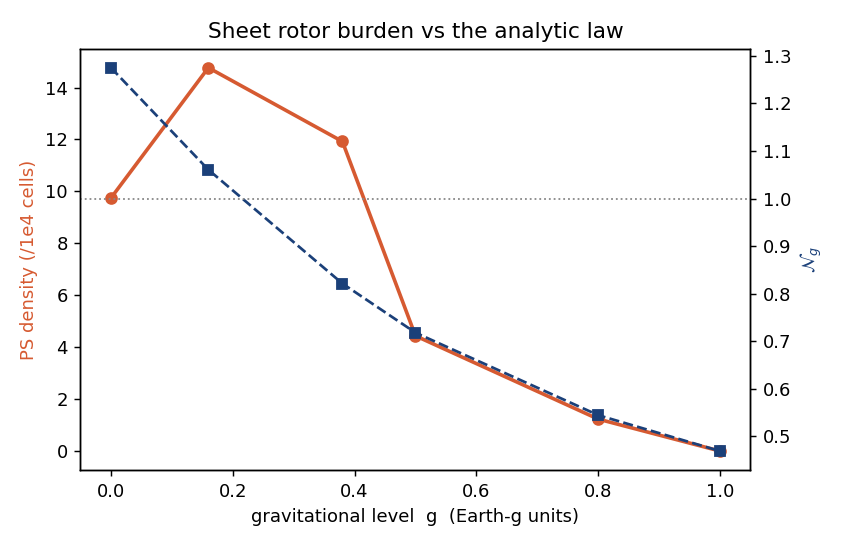
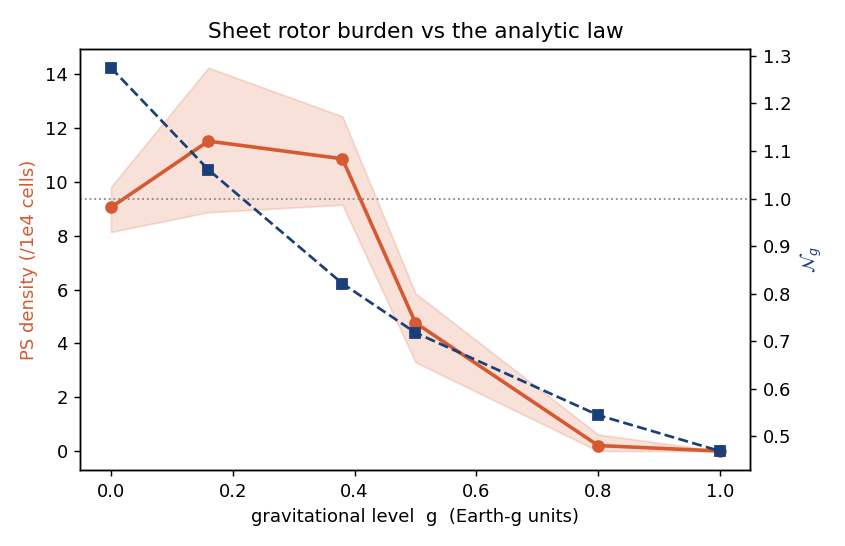
feat: 6-seed ensemble corroboration with bootstrap CI; update manuscripts + README
gravity_corroboration.py gains --seeds (per-gravity fibrosis ensemble) and reports
mean + bootstrap 95% CI, with a CI band on the figure. Full 6-seed run: rotor
burden high across transit/Moon/Mars (~9-12), sharp drop 0.5->0.8 g, exactly 0 at
Earth (CI 0-0). Honest reframing: the full model is MORE pessimistic than the
analytic g*~0.22 (rotors persist through Mars), so N_g is an optimistic bound.
Removes single-seed caveat from scaling_law + Cureus manuscripts.

diff --git a/experiments/gravity_corroboration.py b/experiments/gravity_corroboration.py
@@ -36,6 +36,7 @@ from afib_microgravity.crn import CRNCell  # noqa: E402
 from afib_microgravity.diffusion import AnisotropicDiffusion  # noqa: E402
 from afib_microgravity.fibrosis import correlated_fibrosis  # noqa: E402
 from afib_microgravity.metrics import (  # noqa: E402
+    bootstrap_ci,
     count_phase_singularities,
     ps_density,
 )
@@ -49,7 +50,6 @@ RESULTS = os.path.join(FIG, "results_crn.json")
 V_DEPOL = 20.0
 V0 = -40.0
 DELAY_MS = 30.0
-SEED = 0
 
 
 def crn_phase(V_now, V_delayed):
@@ -64,12 +64,12 @@ def induce_broken_wavefront(cell):
     cell.stimulate(mask, V_DEPOL)
 
 
-def run_sheet_for_gravity(g, base_grid, dt, n_steps, record_every):
+def run_sheet_for_gravity(g, base_grid, dt, n_steps, record_every, seed=0):
     rem = gravity_to_remodeling(g)
     n = int(base_grid * rem.dilation)
     shape = (n, n)
     cell = CRNCell(shape=shape, params=microgravity_crn_params(severity=rem.severity))
-    coupling = correlated_fibrosis(shape, density=rem.density, corr_len=4.0, seed=SEED)
+    coupling = correlated_fibrosis(shape, density=rem.density, corr_len=4.0, seed=seed)
     diff = AnisotropicDiffusion(shape=shape, d_long=0.06, d_trans=0.02,
                                 theta=np.zeros(shape), dx=0.25, coupling=coupling)
     sheet = MonodomainSheet(cell, diff, dt=dt)
@@ -95,6 +95,8 @@ def main():
     ap = argparse.ArgumentParser(description=__doc__)
     ap.add_argument("--full", action="store_true")
     ap.add_argument("--dt", type=float, default=0.02)
+    ap.add_argument("--seeds", type=int, default=1,
+                    help="fibrosis realisations per gravity level (>1 enables bootstrap CI)")
     args = ap.parse_args()
 
     gs = [0.0, 0.16, 0.38, 0.5, 0.8, 1.0]
@@ -103,11 +105,21 @@ def main():
     else:
         base_grid, n_steps, record_every = 40, 400, 20
 
-    psd = []
+    seeds = list(range(args.seeds))
+    psd = []            # per-g mean PS density
+    psd_lo, psd_hi = [], []   # per-g bootstrap 95% CI bounds
+    psd_seeds = []      # per-g list of per-seed values
     for g in gs:
-        d = run_sheet_for_gravity(g, base_grid, args.dt, n_steps, record_every)
-        psd.append(d)
-        print(f"  g={g:.2f}  ps_density={d:.2f}", flush=True)
+        per_seed = [run_sheet_for_gravity(g, base_grid, args.dt, n_steps,
+                                          record_every, seed=s) for s in seeds]
+        mean, lo, hi = bootstrap_ci(per_seed) if len(per_seed) > 1 \
+            else (per_seed[0], per_seed[0], per_seed[0])
+        psd.append(mean)
+        psd_lo.append(lo)
+        psd_hi.append(hi)
+        psd_seeds.append(per_seed)
+        ci = f" (95% CI {lo:.2f}-{hi:.2f}, n={len(per_seed)})" if len(per_seed) > 1 else ""
+        print(f"  g={g:.2f}  ps_density={mean:.2f}{ci}", flush=True)
 
     # overlay N_g from the sweep, if present
     ng = None
@@ -120,6 +132,9 @@ def main():
 
     fig, ax1 = plt.subplots(figsize=(6.5, 4.2))
     ax1.plot(gs, psd, "o-", color="#d65a31", lw=2, label="rotor burden (PS density)")
+    if len(seeds) > 1:
+        ax1.fill_between(gs, psd_lo, psd_hi, color="#d65a31", alpha=0.18,
+                         label="95% CI (bootstrap)")
     ax1.set_xlabel("gravitational level  g  (Earth-g units)")
     ax1.set_ylabel("PS density (/1e4 cells)", color="#d65a31")
     if ng is not None and all(v is not None for v in ng):
@@ -139,8 +154,10 @@ def main():
             data = json.load(f)
     data["gravity_corroboration"] = {
         "mode": "full" if args.full else "smoke",
-        "base_grid": base_grid, "n_steps": n_steps,
+        "base_grid": base_grid, "n_steps": n_steps, "n_seeds": len(seeds),
         "g": gs, "ps_density_x1e4": psd,
+        "ps_density_ci_lo": psd_lo, "ps_density_ci_hi": psd_hi,
+        "ps_density_per_seed": psd_seeds,
     }
     with open(RESULTS, "w") as f:
         json.dump(data, f, indent=2)

diff --git a/docs/preprint/scaling_law_manuscript.md b/docs/preprint/scaling_law_manuscript.md
@@ -70,7 +70,18 @@ The continuous map `g → remodelling` is deliberately the simplest hypothesis c
 | 0.50 | — | 219.8 | 12.75 | 0.72 |
 | 1.00 | Earth | 294.1 | 17.06 | 0.47 |
 
-**Independent corroboration.** The full reaction–diffusion sheet reproduced the direction of the law: rotor burden (phase-singularity density, ×10⁻⁴ cells) was 0.00 at Earth, rising to 4.44 at 0.5 g, 11.92 at Mars, 14.76 at the Moon, and 9.74 in free fall. The two models agree at the extremes (clean conduction at Earth; vulnerability at low gravity) and on the direction of change. They differ in sharpness: the analytic threshold is crisp at `g* ≈ 0.22`, whereas the sheet shows a **gradual** transition with residual rotors at the Mars level — i.e., the single-cell wavelength argument is somewhat more optimistic about Mars than the spatially resolved model. The non-monotonic dip at 0 g vs the Moon is within single-realisation noise (one fibrosis seed).
+**Independent corroboration.** The full reaction–diffusion sheet, run as an ensemble of 6 fibrosis realisations per gravity level (bootstrap 95% CI), reproduced the direction of the law (Table 1b). Rotor burden was comparably high across transit, the Moon and Mars (≈9–12 ×10⁻⁴), fell sharply between 0.5 and 0.8 g, and was **exactly zero at Earth** (CI 0–0). The two models agree at the extremes (clean conduction at Earth; vulnerability at low gravity) and on the direction of change, but differ in where the transition completes: the analytic threshold is crisp at `g* ≈ 0.22`, whereas the spatially resolved model is **more pessimistic**, sustaining rotors through the Mars level and crossing toward zero only around 0.5–0.6 g. The single-cell wavelength argument is therefore an optimistic bound; the full model widens, rather than narrows, the vulnerable gravity range.
+
+**Table 1b. Full-sheet rotor burden (6-seed ensemble, mean and bootstrap 95% CI).**
+
+| g (Earth-g) | body | PS density ×10⁻⁴ (mean, 95% CI) |
+|:---:|:---|:---:|
+| 0.00 | transit | 9.05 (8.14–9.81) |
+| 0.16 | Moon | 11.51 (8.87–14.24) |
+| 0.38 | Mars | 10.85 (9.14–12.43) |
+| 0.50 | — | 4.76 (3.30–5.86) |
+| 0.80 | — | 0.21 (0.00–0.62) |
+| 1.00 | Earth | 0.00 (0.00–0.00) |
 
 **Sensitivity (Table 2).** `g*` was robust to the map shape (`g* ∈ [0.13, 0.34]` for `p ∈ {0.5, 1, 2}`) but strongly dependent on atrial size: no crossing (no vulnerability at any gravity) for `L₀ = 6 cm`, `g* = 0.22` at 8 cm, 0.41 at 10 cm, and 0.58 at 12 cm — at which point Mars itself becomes vulnerable.
 
@@ -95,13 +106,13 @@ The most decision-relevant finding is the **strong dependence on atrial size**. 
 ## 7. Limitations (read this before believing the headline)
 
 - **The `g → stretch` link is the weakest.** The map uses acute-stretch mechano-electric sensitivities as a stand-in for chronic adaptation; the linear form is a hypothesis, not data. This is the first thing a partial-gravity experiment should test.
-- **Single ionic model, 2-D, single fibrosis seed** for corroboration; no autonomic dynamics, no 3-D atrial geometry. The sheet result is a direction-of-effect check, not a calibrated incidence estimate.
+- **Single ionic model, 2-D** for corroboration (6-seed ensemble, but no autonomic dynamics and no 3-D atrial geometry). The sheet result is a direction-of-effect check, not a calibrated incidence estimate.
 - **`𝒩_g` is proposed, not proven.** It is a scaling argument validated in silico; it is not a theorem, and the analytic threshold is more optimistic about Mars than the full model.
 - **No human partial-gravity electrophysiology exists** to fix the absolute value of `g*`. The headline `g* ≈ 0.22` is conditional on `L₀ ≈ 8 cm` and the calibration choices above.
 
 ## 8. Falsifiability and next steps
 
-The framework is falsifiable: if partial-gravity (centrifuge or lunar/Mars-analog) measurements of atrial APD₉₀, CV and effective path length yield `𝒩_g` that does not cross unity within `[0, 1] g`, or crosses it far from the predicted band, the law is wrong. The immediate computational next steps are an ensembled, multi-seed sheet corroboration with confidence bands and a dispersion-of-refractoriness term in `𝒩_g`.
+The framework is falsifiable: if partial-gravity (centrifuge or lunar/Mars-analog) measurements of atrial APD₉₀, CV and effective path length yield `𝒩_g` that does not cross unity within `[0, 1] g`, or crosses it far from the predicted band, the law is wrong. The immediate computational next steps are a dispersion-of-refractoriness term in `𝒩_g` and a 3-D, autonomically driven atrial model.
 
 ## References
 

diff --git a/docs/preprint/cureus_manuscript.md b/docs/preprint/cureus_manuscript.md
@@ -5,9 +5,8 @@ Format: structured abstract (Background/Methods/Results/Conclusions), keywords,
 Introduction, Materials And Methods, Results, Discussion, Conclusions, then the
 mandatory "Additional Information" disclosures block, and numbered references in
 Cureus/AMA style with DOIs.
-NOTE: §Results corroboration values are the full single-seed run; the multi-seed
-bootstrap mean ± 95% CI is being computed and will replace them before submission.
 -->
+
 
 # A Gravitational Scaling Law for Atrial Re-Entrant Vulnerability: A Dimensionless Predictor of the Critical Gravity for Spaceflight Atrial Fibrillation
 
@@ -69,7 +68,18 @@ We treat gravity as a continuous variable and compress the question into a singl
 | 0.50 | — | 219.8 | 12.75 | 0.72 |
 | 1.00 | Earth | 294.1 | 17.06 | 0.47 |
 
-The full reaction–diffusion sheet reproduced the direction of the law: rotor burden (phase-singularity density) was zero at Earth and rose as gravity fell. The models agree at the extremes and in direction; they differ in sharpness, the analytic threshold being crisp at g* ≈ 0.22 while the sheet shows a gradual transition with residual rotors at the Mars level.
+The full reaction–diffusion sheet (6-seed ensemble per gravity level, bootstrap 95% CI) reproduced the direction of the law (Table 1b): rotor burden was comparably high across transit, the Moon and Mars (≈9–12 ×10⁻⁴), fell sharply between 0.5 and 0.8 g, and was exactly zero at Earth (CI 0–0). The models agree at the extremes and in direction but differ in where the transition completes: the analytic threshold is crisp at g* ≈ 0.22, while the spatially resolved model is more pessimistic, sustaining rotors through the Mars level and approaching zero only near 0.5–0.6 g. The single-cell argument is thus an optimistic bound on the vulnerable gravity range.
+
+*Table 1b: Full-sheet rotor burden (6-seed ensemble, mean and bootstrap 95% CI).*
+
+| g (Earth-g) | Body | PS density ×10⁻⁴ (mean, 95% CI) |
+|:---:|:---|:---:|
+| 0.00 | Interplanetary transit | 9.05 (8.14–9.81) |
+| 0.16 | Moon | 11.51 (8.87–14.24) |
+| 0.38 | Mars | 10.85 (9.14–12.43) |
+| 0.50 | — | 4.76 (3.30–5.86) |
+| 0.80 | — | 0.21 (0.00–0.62) |
+| 1.00 | Earth | 0.00 (0.00–0.00) |
 
 g* was robust to the assumed fluid-shift map shape (g* ∈ [0.13, 0.34] for p ∈ {0.5, 1, 2}) but depended strongly on atrial path length: no crossing (no vulnerability at any gravity) for L₀ = 6 cm, g* = 0.22 at 8 cm, 0.41 at 10 cm, and 0.58 at 12 cm — at which point Mars itself becomes vulnerable (Table 2).
 

diff --git a/README.md b/README.md
@@ -116,10 +116,12 @@ Re-entry can be hosted when `𝒩_g ≳ 1`; the **critical gravity `g*`** solves
 | 1.00 | Earth | 0.47 | safe |
 
 The crossing sits at **`g* ≈ 0.22`, between the Moon and Mars** — a concrete,
-falsifiable prediction. The full 2-D sheet corroborates the trend independently:
-rotor burden (phase-singularity density) rises as gravity falls and is **exactly
-zero at Earth**, though the transition is gradual rather than a sharp threshold
-(some residual rotors persist at the Mars level).
+falsifiable prediction. The full 2-D sheet (6-seed ensemble, bootstrap 95% CI)
+corroborates the trend independently: rotor burden (phase-singularity density) is
+comparably high across transit/Moon/Mars (≈9–12 ×10⁻⁴), falls sharply between 0.5
+and 0.8 g, and is **exactly zero at Earth** (CI 0–0). The full model is in fact
+*more pessimistic* than the analytic threshold — it sustains rotors through the
+Mars level — so `𝒩_g` is an optimistic bound on the vulnerable gravity range.
 
 **Robust to the map shape, sensitive to atrial size.** Varying the fluid-shift
 drive exponent `p` in `(1−g)^p` leaves `g* ∈ [0.13, 0.34]`. But `g*` depends